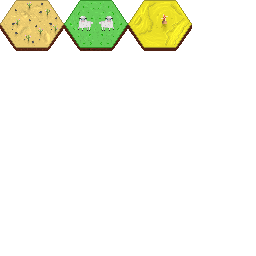
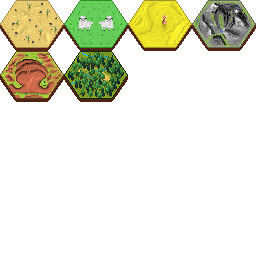
Added forest, brick and mountain tiles

Changed region(s): [[0.0, 0.1875, 0.5, 0.4062], [0.75, 0.0, 1.0, 0.2188]]

diff --git a/include/catan/constants.hpp b/include/catan/constants.hpp
@@ -9,19 +9,28 @@ namespace ctn{
     enum class Tile{
         DESERT,
         PLAIN,
-        WHEAT
+        WHEAT,
+        MOUNTAIN,
+        BRICK,
+        FOREST
     };
 
     static const ctn::Tile All_types[] = {
         ctn::Tile::DESERT,
         ctn::Tile::PLAIN,
-        ctn::Tile::WHEAT
+        ctn::Tile::WHEAT,
+        ctn::Tile::MOUNTAIN,
+        ctn::Tile::BRICK,
+        ctn::Tile::FOREST
     };
 
     static const std::map<ctn::Tile, std::string> enum2str = {
         {ctn::Tile::DESERT, "desert"},
         {ctn::Tile::PLAIN, "plain"},
-        {ctn::Tile::WHEAT, "wheat"}
+        {ctn::Tile::WHEAT, "wheat"},
+        {ctn::Tile::MOUNTAIN, "mountain"},
+        {ctn::Tile::BRICK, "brick"},
+        {ctn::Tile::FOREST, "forest"}
     };
 }
 
